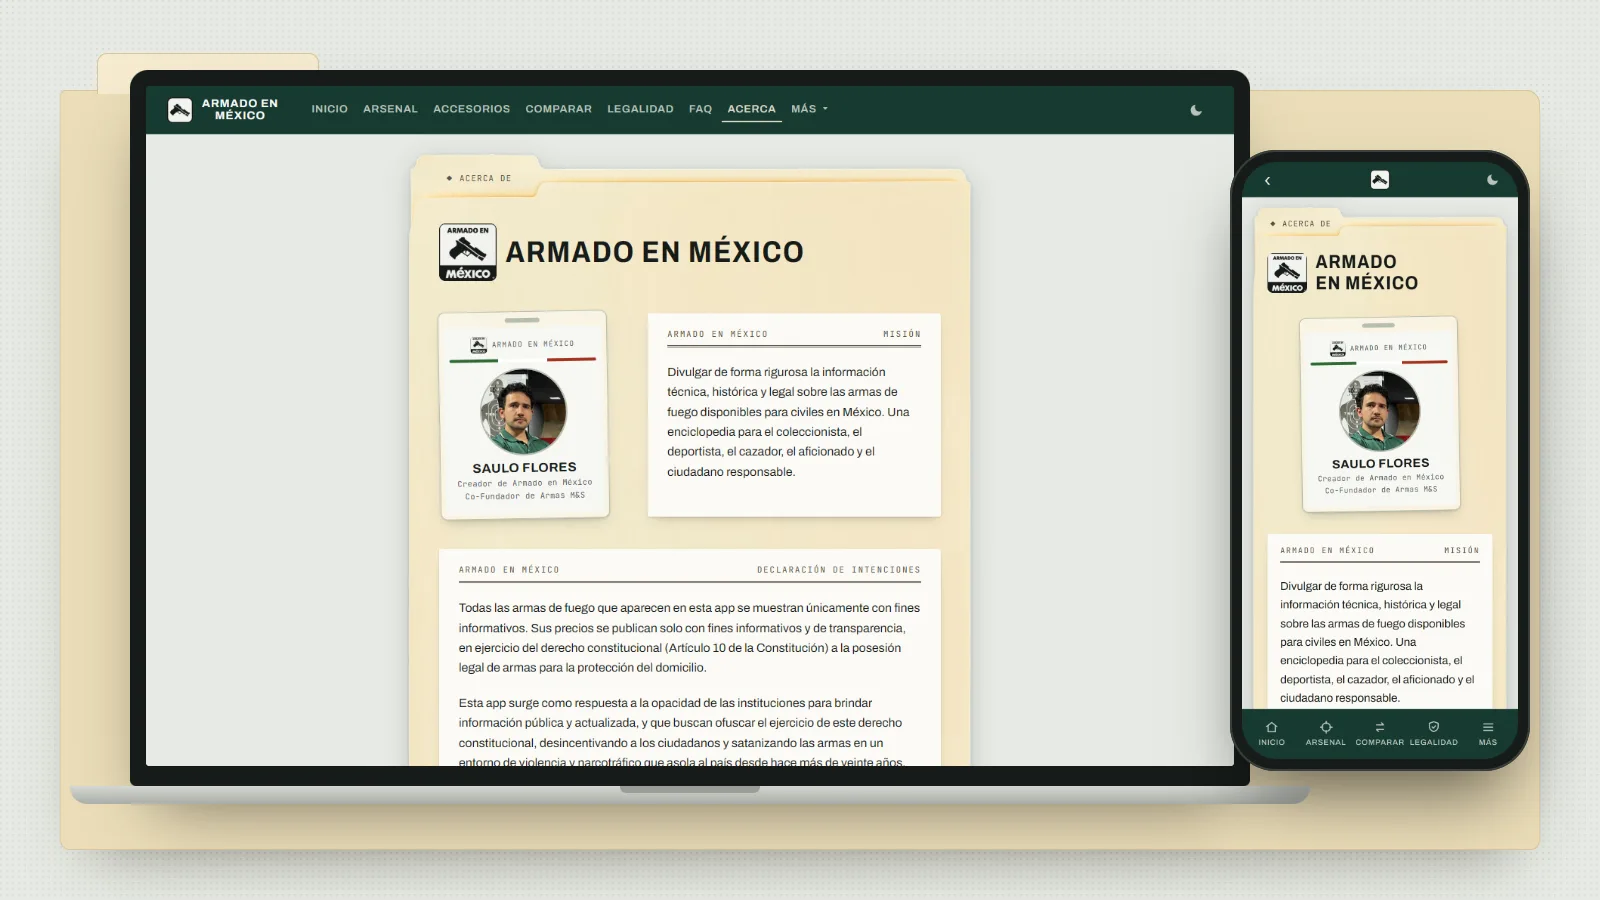
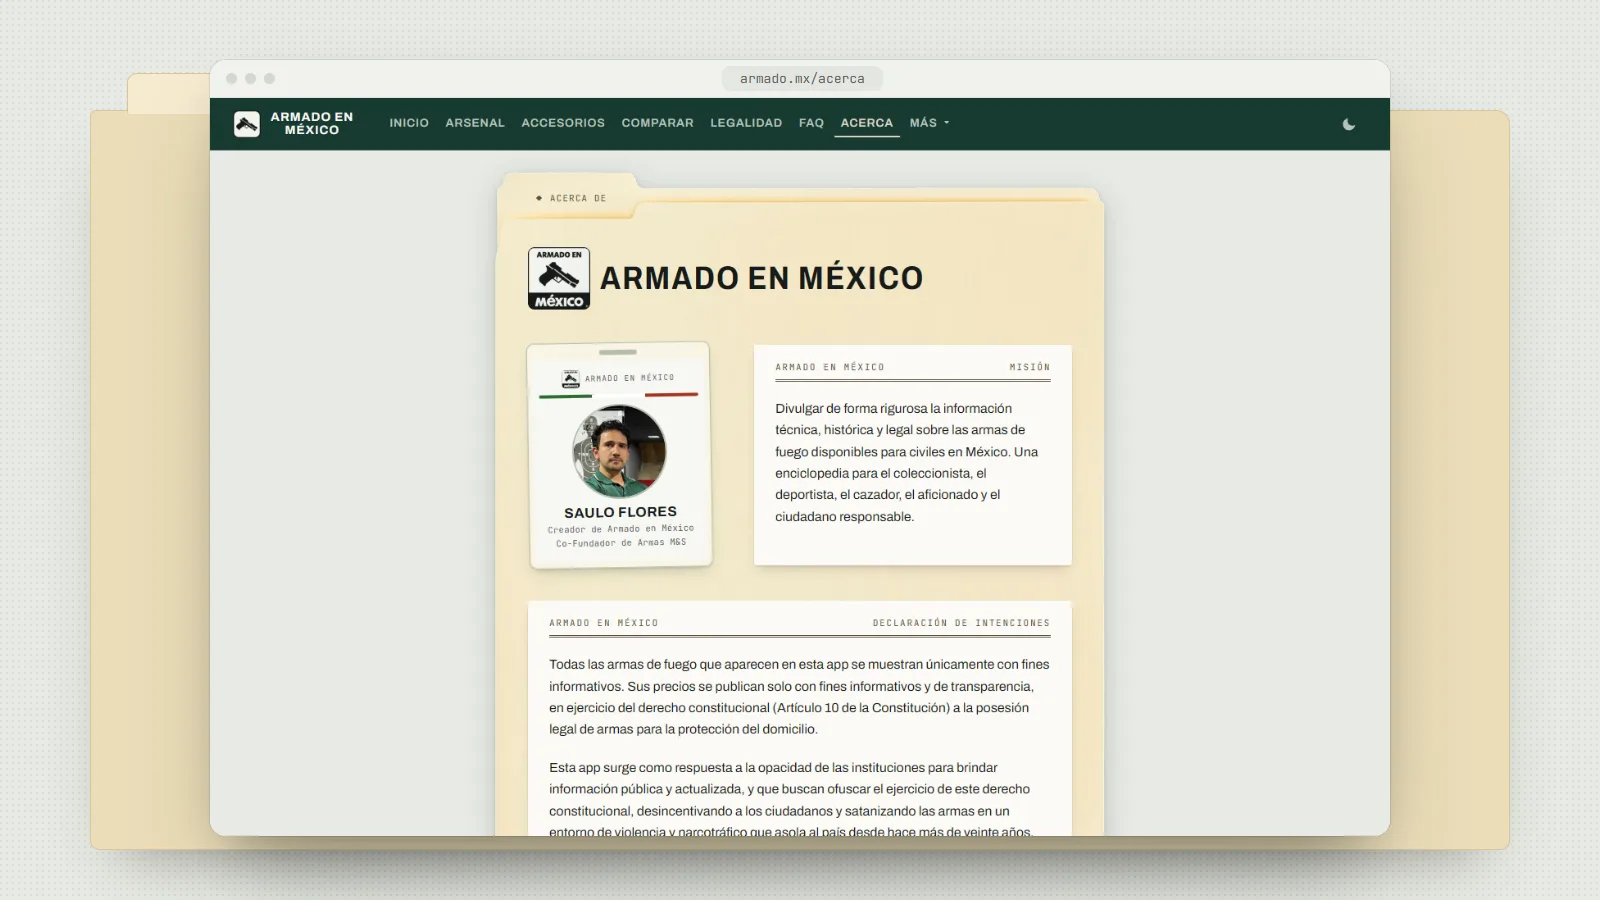
docs(readme): recorridos con zoom en seis páginas más, solo escritorio y portada en 3D
- Munición, accesorio, comparador, legalidad, calibres y arsenal pasan a GIF con
  el mismo recorrido de la ficha de arma (recorrido() generalizado).
- Fuera los teléfonos salvo en la portada; las fijas van en una ventana de
  navegador en lugar de la laptop.
- Portada: ventana y teléfono con ángulo 3D, bordes suaves y sin base.
- GIF a 640 px y 64 colores: de ~38 MB a ~21 MB en total. Se baja la página
  entera antes de capturar para que carguen las fotos diferidas.

diff --git a/README.md b/README.md
@@ -34,7 +34,7 @@ compran ni se venden armas.
 
 ## Ficha de arma
 
-<p align="center"><img src="docs/capturas/readme/ficha-arma.gif" alt="Recorrido por la ficha de la Glock 25: precio, existencias, ficha técnica, clasificación legal e historial de precios" width="720"></p>
+<p align="center"><img src="docs/capturas/readme/ficha-arma.gif" alt="Recorrido por la ficha de la Glock 25: precio, existencias, ficha técnica, clasificación legal e historial de precios" width="640"></p>
 
 Cada arma tiene su página, y toda va dentro de un folder manila, ordenada según las preguntas de
 quien la está considerando:
@@ -59,14 +59,14 @@ Más abajo esperan la **munición y los accesorios compatibles**, en una vitrina
 
 ## Ficha de munición y de accesorio
 
-![Ficha de la munición .380 ACP Federal en escritorio y en el teléfono](docs/capturas/readme/ficha-municion.webp)
+<p align="center"><img src="docs/capturas/readme/ficha-municion.gif" alt="Recorrido por la ficha de la munición .380 ACP Federal: precio por cartucho, historial, estatus legal, especificaciones y armas de su calibre" width="640"></p>
 
 Cada caja de munición del inventario oficial tiene su ficha: marca, calibre, tipo de bala y peso
 en granos, el **precio de referencia por cartucho** con la fuente de la que sale, las existencias
 por armería, su historial de precios y su estatus legal. Desde la ficha se salta a todas las armas
 de ese calibre.
 
-![Ficha del accesorio Meprolight MEPRO MOR en escritorio y en el teléfono](docs/capturas/readme/ficha-accesorio.webp)
+<p align="center"><img src="docs/capturas/readme/ficha-accesorio.gif" alt="Recorrido por la ficha de la mira Meprolight MEPRO MOR: precio, existencias, ficha técnica, armas compatibles e historial" width="640"></p>
 
 Los accesorios —cargadores, ópticas, empuñaduras y demás— siguen la misma lógica que las armas:
 foto con su sello de clasificación, ficha técnica, comprobante de precio y tarjeta de almacén.
@@ -74,7 +74,7 @@ Cada uno dice con qué armas es compatible, y cada arma lista los suyos.
 
 ## Comparación de armas
 
-![Comparador: Ruger LCP frente a Ruger LCP MAX](docs/capturas/readme/comparar.webp)
+<p align="center"><img src="docs/capturas/readme/comparar.gif" alt="Recorrido por el comparador Ruger LCP frente a LCP MAX: lo que las distingue, precio, existencias, lo que comparten y la diferencia en una línea" width="640"></p>
 
 Pone dos armas lado a lado y las lee fila por fila: **capacidad, peso, longitud, precio,
 existencias, año, calibre, mecanismo y origen**. Arriba van las filas que las distinguen, con la
@@ -101,7 +101,7 @@ comparador el 26 de septiembre de 2026. Cambian con cada inventario nuevo.</sub>
 
 ## Apartado legal
 
-![Legalidad: la entrevista, el mapa del trámite y los folders desplegables](docs/capturas/readme/legalidad.webp)
+<p align="center"><img src="docs/capturas/readme/legalidad.gif" alt="Recorrido por Legalidad: la entrevista, el mapa del trámite y los folders federal, por estado, trámites y fundamento legal" width="640"></p>
 
 Una sola página, con la entrevista arriba, el mapa del trámite y cuatro folders desplegables, y
 **toda afirmación trae su fuente oficial y la fecha en que se consultó**:
@@ -136,7 +136,7 @@ todo, tampoco promete nada: la autorización la decide la autoridad, no un cuest
 
 ## Guía de calibres
 
-![Guía de calibres: la vitrina de cartuchos a escala y la ficha del 9 mm Parabellum](docs/capturas/readme/calibres.webp)
+<p align="center"><img src="docs/capturas/readme/calibres.gif" alt="Recorrido por la Guía de calibres: los cartuchos a escala, las fichas y los fundamentos" width="640"></p>
 
 Treinta cartuchos: qué son, qué tan fuerte pega cada uno y cuáles puede comprar un civil en
 México. La vitrina los pone **a su tamaño real, de menor a mayor**, y un filtro separa los de uso
@@ -149,7 +149,7 @@ comercial corriente— y cada ficha dice de dónde salen.
 
 ## Arsenal por sucursal y por disponibilidad
 
-![Arsenal: las armerías DCAM y OTCA y la tarjeta de disponibilidad](docs/capturas/readme/arsenal.webp)
+<p align="center"><img src="docs/capturas/readme/arsenal.gif" alt="Recorrido por el Arsenal: por armería, disponibilidad por sucursal, clasificación legal, tipo de arma, uso y calibre" width="640"></p>
 
 El Arsenal no abre con una lista: abre repartiendo el catálogo según la pregunta con la que llega
 cada quien.
@@ -166,7 +166,7 @@ buscador, tipo, calibre, armería, disponibilidad, rango de precio, uso, marca, 
 
 ## Colaborar con reportes
 
-![El aviso «¿Encontraste un dato incorrecto?» al pie de cada ficha](docs/capturas/readme/reportes.webp)
+![El aviso «¿Encontraste un dato incorrecto?» al pie de la ficha de la Glock 25](docs/capturas/readme/reportes.webp)
 
 La enciclopedia se corrige con ayuda de quien la usa. Al pie de cada ficha de arma, munición,
 accesorio y calibre, y de las páginas de Legalidad y Preguntas frecuentes, está el aviso
